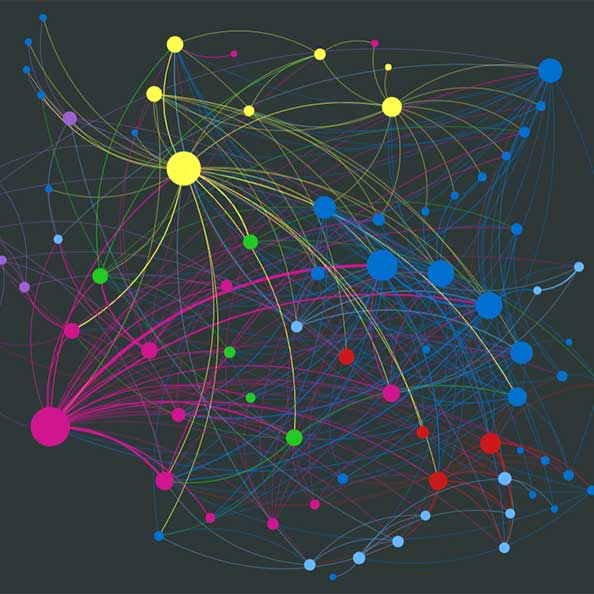
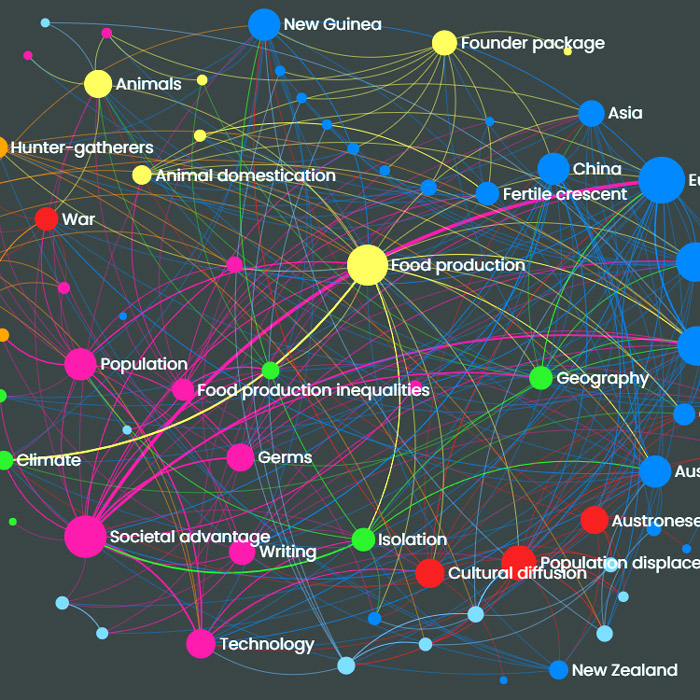
nodes - updated socials

diff --git a/nodes/static/nodes/ts/head-strong.ts b/nodes/static/nodes/ts/head-strong.ts
@@ -22,13 +22,13 @@ let categories:Node.LegendItem[] = [
   { class: 8, name: "Environment" }
 ];
 let getColor = new Map<number, string>();
-getColor.set(0, "#ED45B2");
-getColor.set(1, "#970F67");
+getColor.set(0, "#f28cd0");
+getColor.set(1, "#cf1791");
 getColor.set(2, "#1B981B");
 getColor.set(3, "#66B8FF");
-getColor.set(4, "#001B33");
+getColor.set(4, "#7de87d");
 getColor.set(5, "#0070D1");
-getColor.set(6, "#E63333");
+getColor.set(6, "#9f1414");
 getColor.set(7, "#101414");
 getColor.set(8, "#FFFF1A");
 getColor.set(9, "#9D61D1");
@@ -56,7 +56,7 @@ let SigmaConstructor: Node.SigmaConstructor = {
   settings: {
     minNodeSize: 0.5,
     maxNodeSize: 15, // this also controls how many labels will be shown
-    minEdgeSize: 0.1,
+    minEdgeSize: 0.05,
     maxEdgeSize: 3,
     defaultEdgeType: "curve", // only works on canvas renderer
     defaultLabelColor: "#dffcff",

diff --git a/static/nodes/ts/head-strong.ts b/static/nodes/ts/head-strong.ts
@@ -22,13 +22,13 @@ let categories:Node.LegendItem[] = [
   { class: 8, name: "Environment" }
 ];
 let getColor = new Map<number, string>();
-getColor.set(0, "#ED45B2");
-getColor.set(1, "#970F67");
+getColor.set(0, "#f28cd0");
+getColor.set(1, "#cf1791");
 getColor.set(2, "#1B981B");
 getColor.set(3, "#66B8FF");
-getColor.set(4, "#001B33");
+getColor.set(4, "#7de87d");
 getColor.set(5, "#0070D1");
-getColor.set(6, "#E63333");
+getColor.set(6, "#9f1414");
 getColor.set(7, "#101414");
 getColor.set(8, "#FFFF1A");
 getColor.set(9, "#9D61D1");
@@ -56,7 +56,7 @@ let SigmaConstructor: Node.SigmaConstructor = {
   settings: {
     minNodeSize: 0.5,
     maxNodeSize: 15, // this also controls how many labels will be shown
-    minEdgeSize: 0.1,
+    minEdgeSize: 0.05,
     maxEdgeSize: 3,
     defaultEdgeType: "curve", // only works on canvas renderer
     defaultLabelColor: "#dffcff",

diff --git a/nodes/static/nodes/js/head-strong.js b/nodes/static/nodes/js/head-strong.js
@@ -16,13 +16,13 @@ let categories = [
     { class: 8, name: "Environment" }
 ];
 let getColor = new Map();
-getColor.set(0, "#ED45B2");
-getColor.set(1, "#970F67");
+getColor.set(0, "#f28cd0");
+getColor.set(1, "#cf1791");
 getColor.set(2, "#1B981B");
 getColor.set(3, "#66B8FF");
-getColor.set(4, "#001B33");
+getColor.set(4, "#7de87d");
 getColor.set(5, "#0070D1");
-getColor.set(6, "#E63333");
+getColor.set(6, "#9f1414");
 getColor.set(7, "#101414");
 getColor.set(8, "#FFFF1A");
 getColor.set(9, "#9D61D1");
@@ -46,7 +46,7 @@ let SigmaConstructor = {
     settings: {
         minNodeSize: 0.5,
         maxNodeSize: 15,
-        minEdgeSize: 0.1,
+        minEdgeSize: 0.05,
         maxEdgeSize: 3,
         defaultEdgeType: "curve",
         defaultLabelColor: "#dffcff",

diff --git a/static/nodes/js/head-strong.js b/static/nodes/js/head-strong.js
@@ -16,13 +16,13 @@ let categories = [
     { class: 8, name: "Environment" }
 ];
 let getColor = new Map();
-getColor.set(0, "#ED45B2");
-getColor.set(1, "#970F67");
+getColor.set(0, "#f28cd0");
+getColor.set(1, "#cf1791");
 getColor.set(2, "#1B981B");
 getColor.set(3, "#66B8FF");
-getColor.set(4, "#001B33");
+getColor.set(4, "#7de87d");
 getColor.set(5, "#0070D1");
-getColor.set(6, "#E63333");
+getColor.set(6, "#9f1414");
 getColor.set(7, "#101414");
 getColor.set(8, "#FFFF1A");
 getColor.set(9, "#9D61D1");
@@ -46,7 +46,7 @@ let SigmaConstructor = {
     settings: {
         minNodeSize: 0.5,
         maxNodeSize: 15,
-        minEdgeSize: 0.1,
+        minEdgeSize: 0.05,
         maxEdgeSize: 3,
         defaultEdgeType: "curve",
         defaultLabelColor: "#dffcff",

diff --git a/static/nodes/scss/dg.scss b/static/nodes/scss/dg.scss
@@ -64,11 +64,9 @@ h2 {
         }
     }
     .main-map {
-        // width: clamp(50px, 100%, 1000px);
         width: 100%;
     }
     .map-overlay{
-        // width: clamp(50px, 100%, 1000px);
         width:100%;
         position: absolute;
         top:0;
